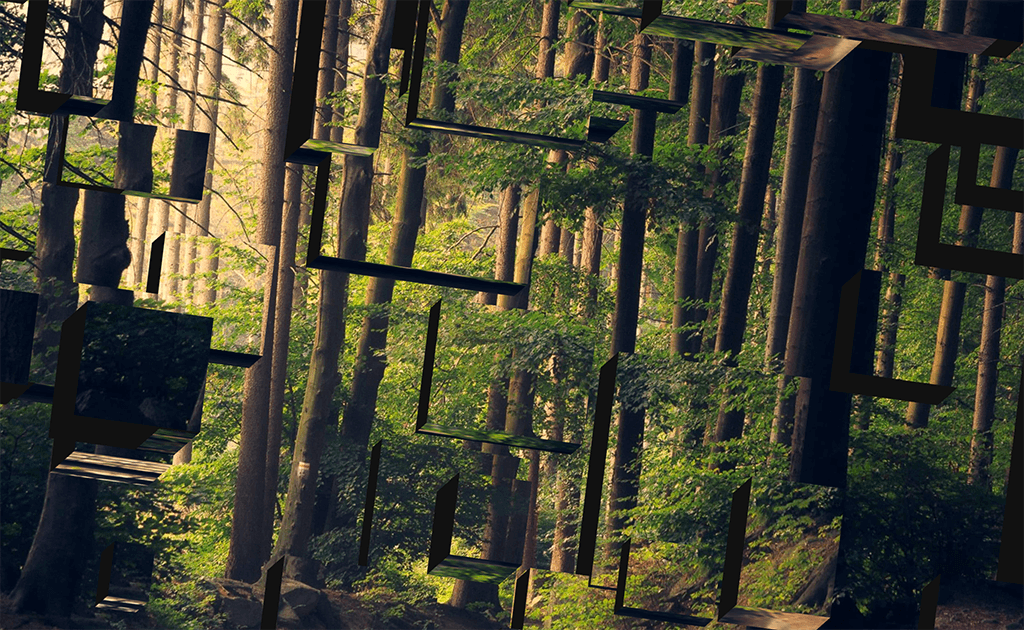
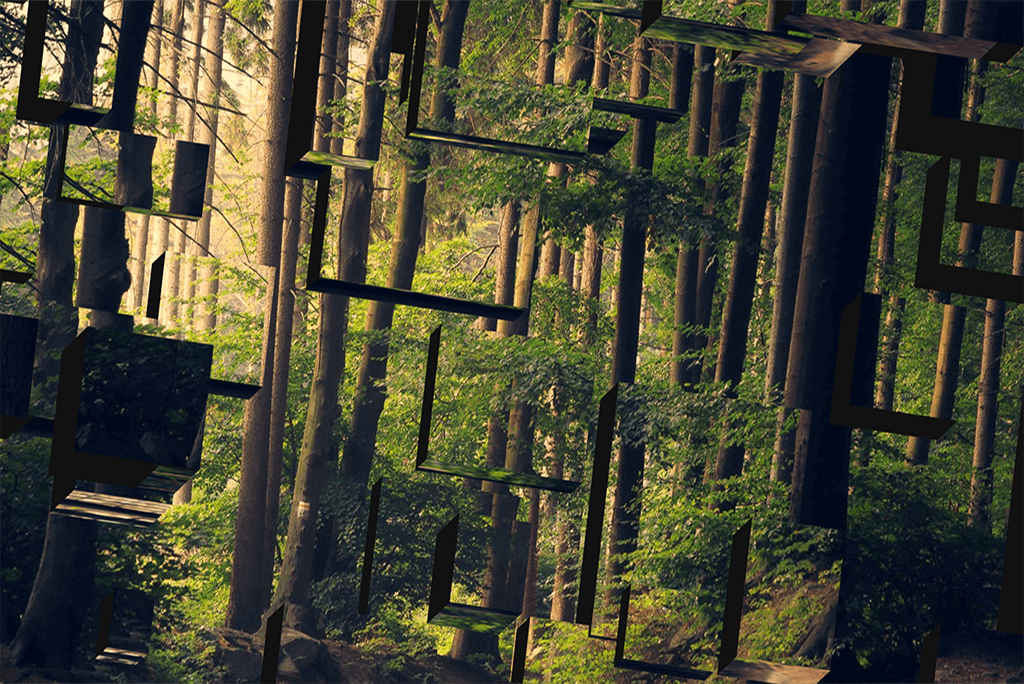
📖 🔧  README adjustements

Changed region(s): [[0.0938, 0.7238, 0.1562, 0.754]]

diff --git a/README.md b/README.md
@@ -3,7 +3,7 @@
 > Three.js Material which lets you do [Texture Projection](https://en.wikipedia.org/wiki/Projective_texture_mapping) on a 3d Model.
 
 <p align="center">
-  [<img src="screenshot.png" width="600">](https://marcofugaro.github.io/three-projected-material/)
+  <a href="https://marcofugaro.github.io/three-projected-material/"><img src="screenshot.png" width="700"></a>
 </p>
 
 ## Installation
@@ -123,7 +123,7 @@ If you want to see the remaining code, and other usages, check out the [examples
   <a href="https://marcofugaro.github.io/three-projected-material/envmap"><img width="274" src="examples/screenshots/envmap.png" /></a>
   <a href="https://marcofugaro.github.io/three-projected-material/multiple-projections"><img width="274" src="examples/screenshots/multiple-projections.png" /></a>
   <a href="https://marcofugaro.github.io/three-projected-material/instancing"><img width="274" src="examples/screenshots/instancing.png" /></a>
-  <a href="https://marcofugaro.github.io/three-projected-material/multiple-projections-instancing"><img width="274" src="examples/screenshots/multiple-projections-instancing.png" style="vertical-align: top;" /></a>
+  <a href="https://marcofugaro.github.io/three-projected-material/multiple-projections-instancing"><img width="274" src="examples/screenshots/multiple-projections-instancing.png" /></a>
 </p>
 
 ## API Reference
